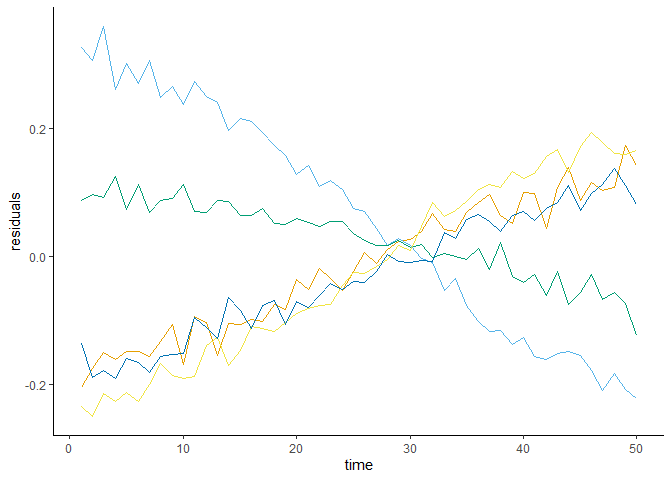
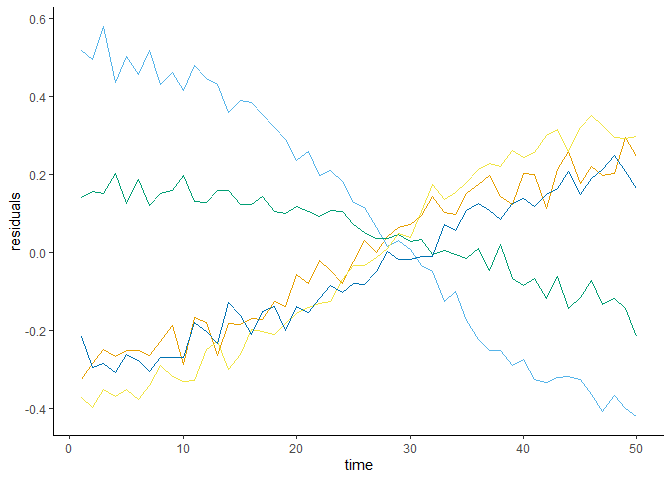
Explaining range parameter, maybe all documentaton was missing too.

diff --git a/README.md b/README.md
@@ -96,7 +96,7 @@ ggplot(pca, aes(x = PC1, y = PC2, fill = population)) +
 
 The underlying model of *ULPS* is
 
-*Y*<sub>*t*</sub> = *C*<sub>*t*</sub> + *Xβ*<sub>*t*</sub> + *ε*<sub>*t*</sub>,
+*Y*<sub>*t*</sub> = *C*<sub>*t*</sub> + *X**β*<sub>*t*</sub> + *ε*<sub>*t*</sub>,
 
 where *Y*<sub>*t*</sub> are the N phenotypes at time point *t*, *X* is
 the centered and scaled N x P genotype matrix, *β*<sub>*t*</sub> is the
@@ -104,7 +104,7 @@ vector of P genetic effects, *C*<sub>*t*</sub> are other observed
 effects at time point *t*, and *ε*<sub>*t*</sub> is the vector of
 residuals, each generated independently by a Gaussian process over time.
 The phenotypic variance causally explained by the term
-*Xβ*<sub>*t*</sub> is *β*<sup>⊤</sup>*Rβ*, where *R* is the linkage
+*X**β*<sub>*t*</sub> is *β*<sup>⊤</sup>*R**β*, where *R* is the linkage
 disequilibrium matrix between the variants. Note that *C*<sub>*t*</sub>
 and *X* need not be independent, in which case dividing the causally
 explained variance by the total phenotypic variance doesn’t equal
@@ -404,7 +404,11 @@ squared exponential model, “o-u” is the Ornstein–Uhlenbeck -model, and
 The function `residual_kernel()` returns the covariance matrix between
 time points when parameter `sample` is the default value “FALSE”. When
 `sample` a positive integer, `residual_kernel()` instead visualizes
-independent samples using the covariance matrix.
+independent samples using the covariance matrix. Option “noise” needs no
+parameters, other options need a range parameter determining how far
+points meaningfully affect one another (here 10), and option “matern”
+also needs a smoothness parameter determining how differentiable the
+curve is (here 5, differentiable 4 times).
 
 ``` r
 nothing <- residual_kernel(rep(1, 50), "noise", sample = 5) # Noise.
@@ -425,10 +429,10 @@ nothing <- residual_kernel(rep(1, 50), "o-u", 10, sample = 5) # Ornstein-Uhlenbe
 ![](README_files/figure-gfm/residual-3.png)<!-- -->
 
 ``` r
-nothing <- residual_kernel(rep(1, 50), "matern", c(10, 10), sample = 5) # Matérn.
+nothing <- residual_kernel(rep(1, 50), "matern", c(5, 10), sample = 5) # Matérn.
 ```
 
-    ## Warning in residual_kernel(rep(1, 50), "matern", c(10, 10), sample = 5): A
+    ## Warning in residual_kernel(rep(1, 50), "matern", c(5, 10), sample = 5): A
     ## residual autocorrelation matrix was not positive definite. Shrinking.
 
 ![](README_files/figure-gfm/residual-4.png)<!-- -->
